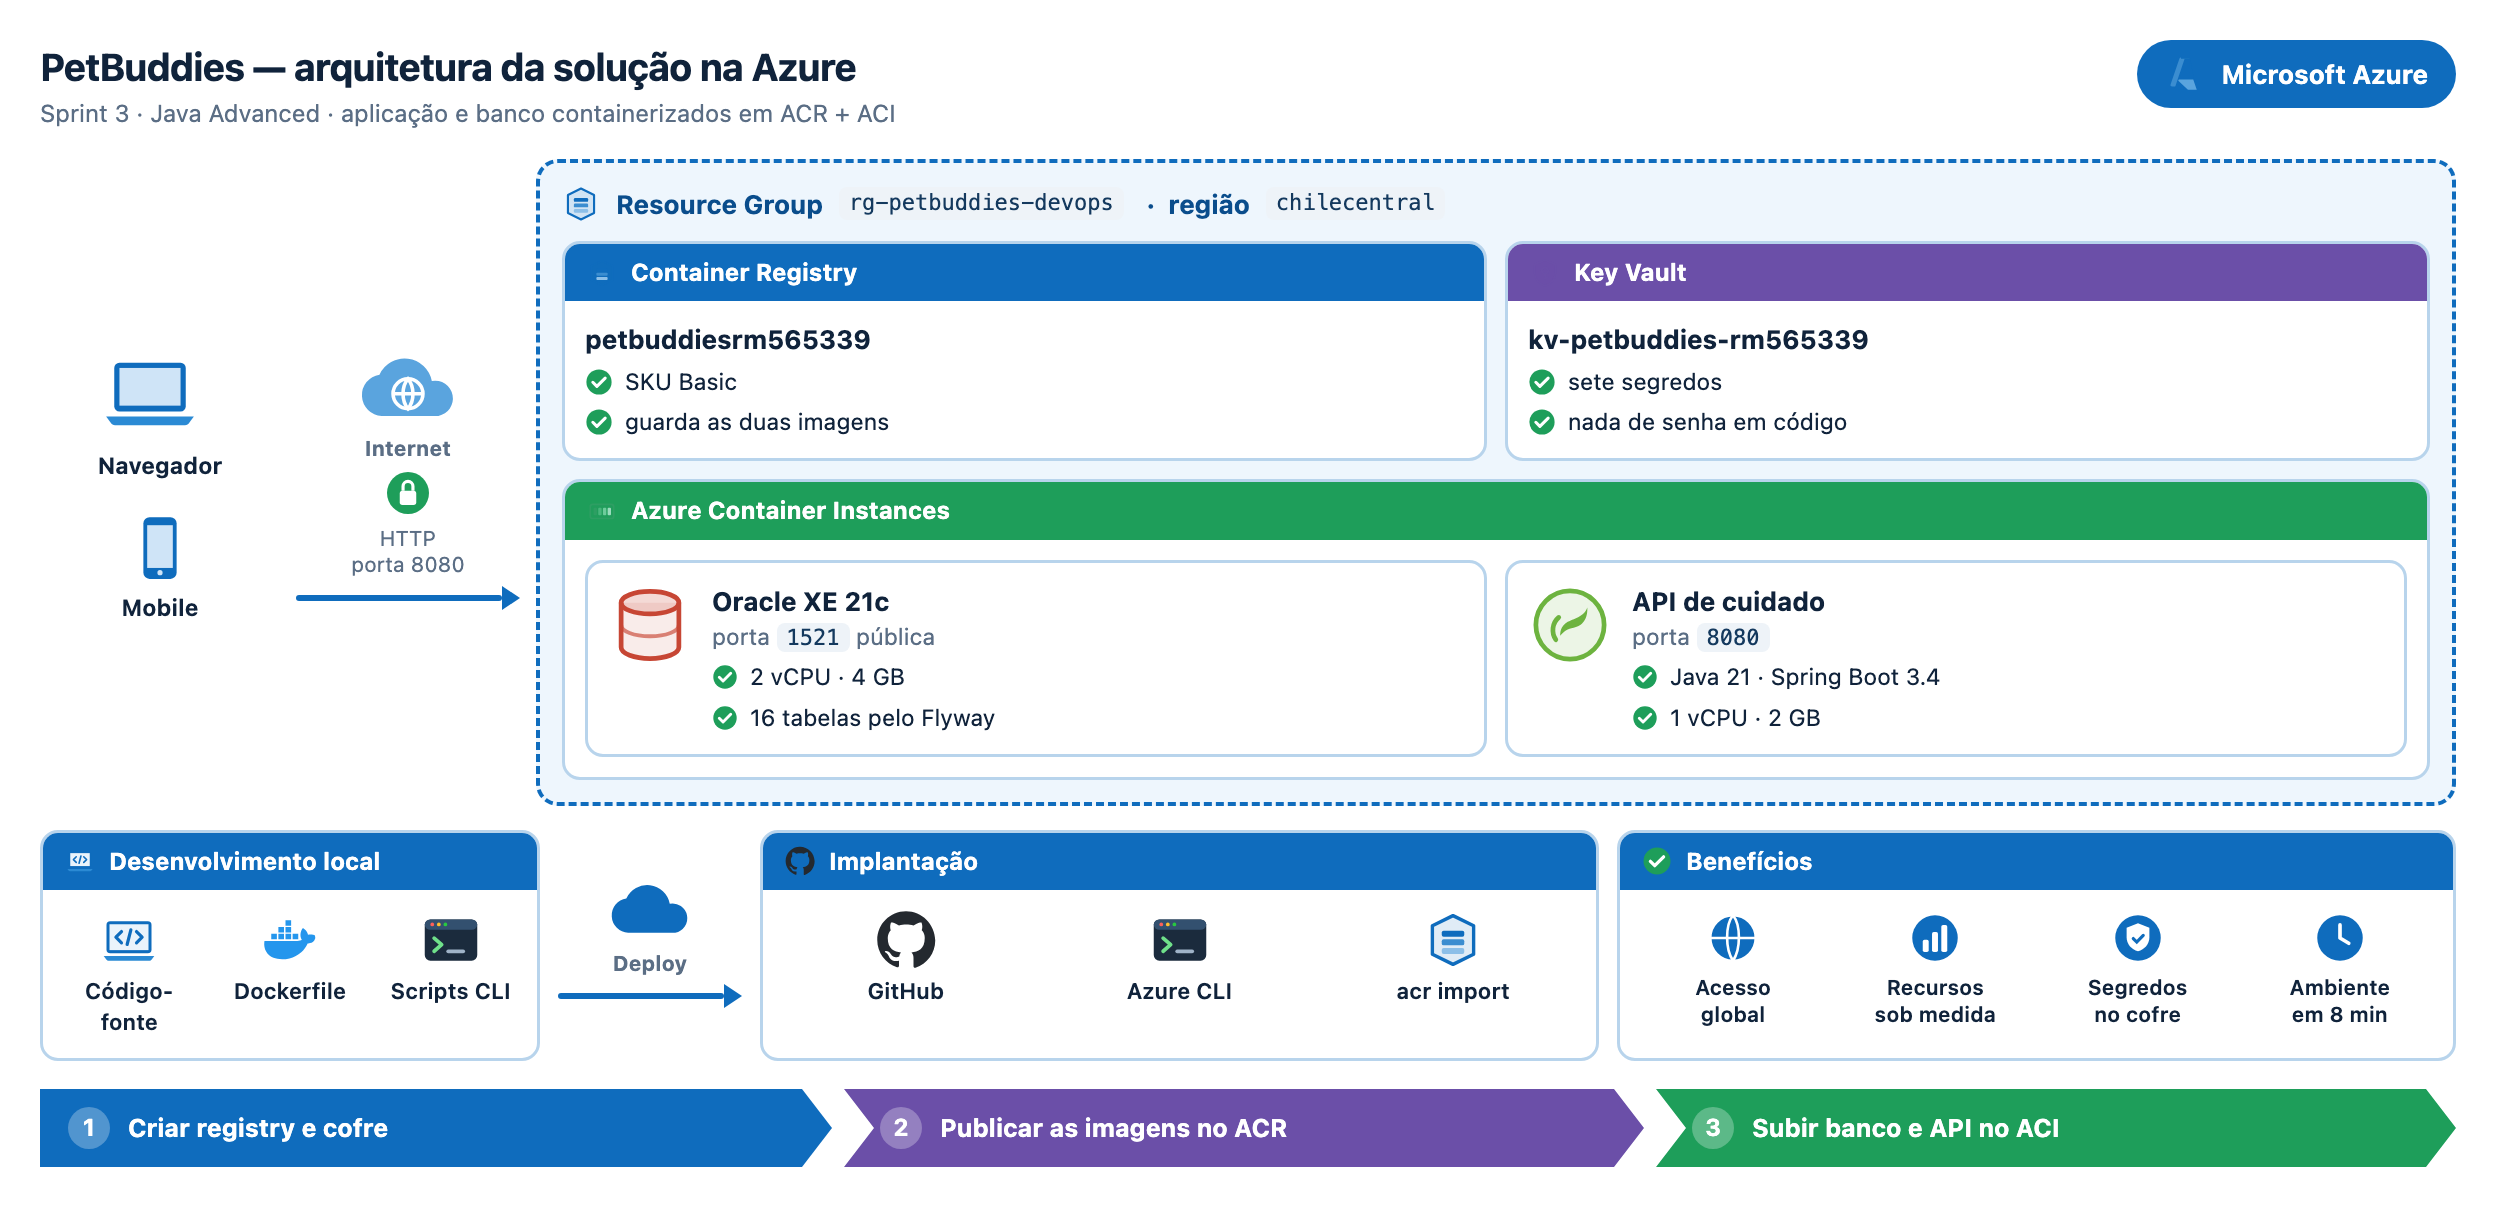
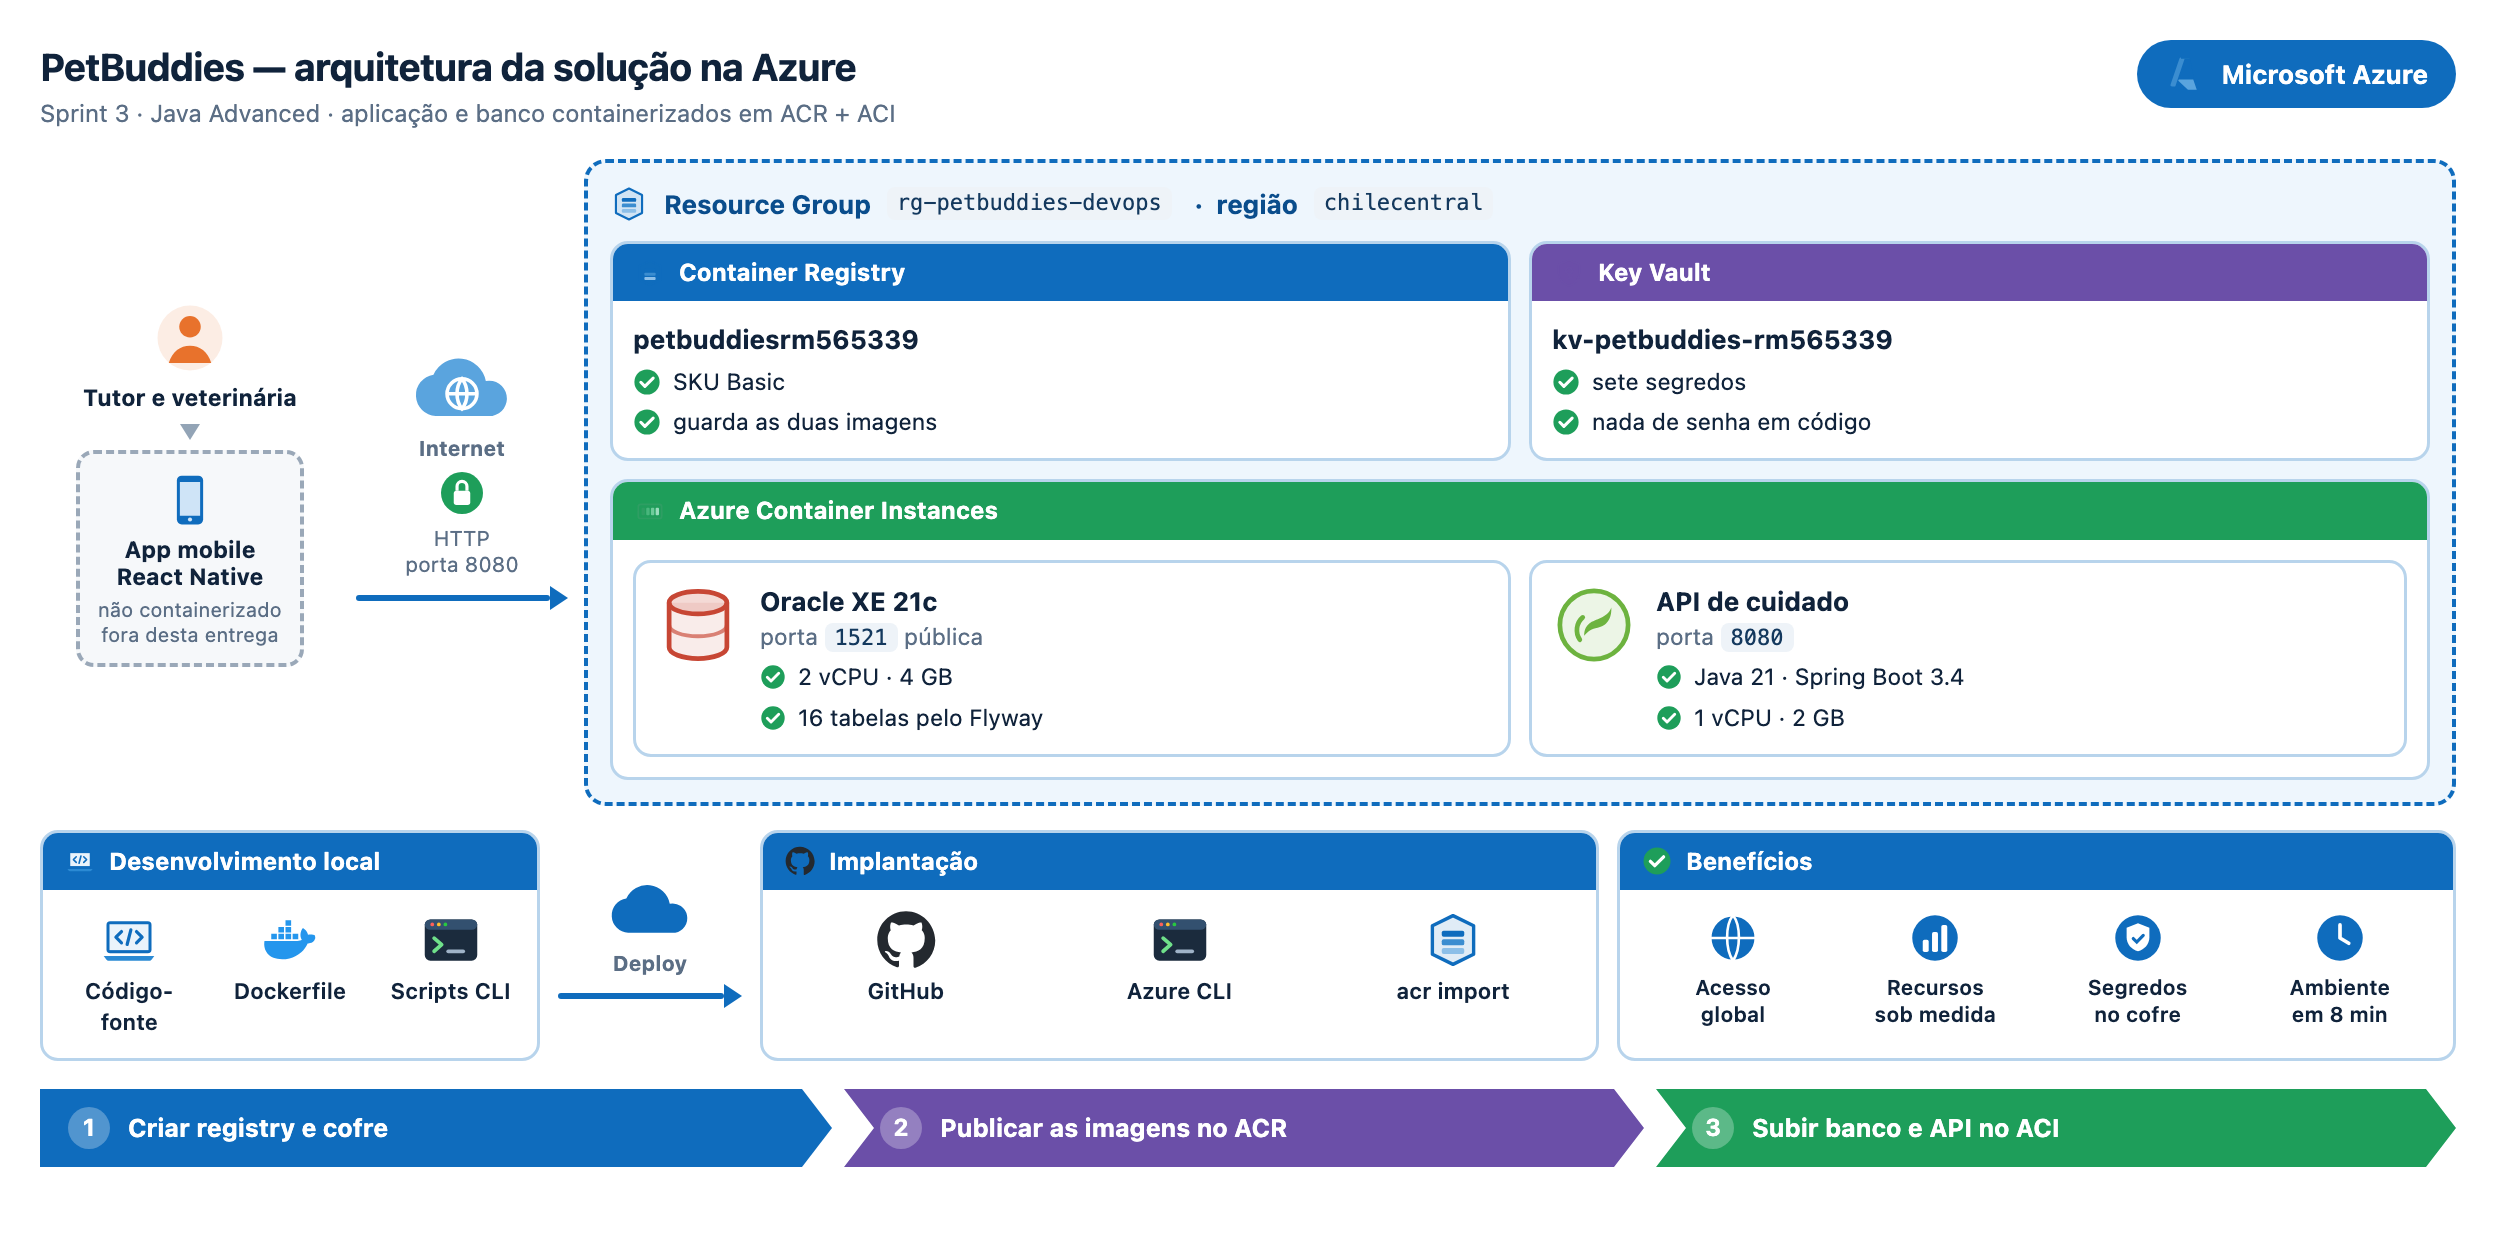
chore: acompanha a main na conta RM565339

Changed region(s): [[0.0, 0.1246, 1.0, 0.9656], [0.0312, 0.0311, 0.3438, 0.1246], [0.875, 0.0311, 0.9688, 0.0934]]

diff --git a/docs/arquitetura.html b/docs/arquitetura.html
@@ -31,8 +31,15 @@
   .nome{font-weight:700;font-size:13px}
   .desc{color:var(--fraca);font-size:11.5px;margin-top:1px}
 
-  .cena{display:grid;grid-template-columns:120px 112px 1fr;column-gap:8px;align-items:center}
-  .disp{display:flex;flex-direction:column;gap:14px;align-items:center}
+  .cena{display:grid;grid-template-columns:150px 106px 1fr;column-gap:8px;align-items:center}
+  .disp{display:flex;flex-direction:column;gap:5px;align-items:center}
+  .pessoa{text-align:center}
+  .pessoa span{display:block;font-size:11.5px;font-weight:700;margin-top:2px}
+  .desceta{width:0;height:0;border-left:5px solid transparent;border-right:5px solid transparent;
+           border-top:8px solid #93a4b6}
+  .fora{border:2px dashed #9aa8b8;border-radius:9px;background:#f6f8fa;padding:8px 9px;text-align:center}
+  .fora .t{font-weight:700;font-size:11.5px;line-height:1.2;margin-top:3px}
+  .fora .n{color:var(--fraca);font-size:10px;line-height:1.25;margin-top:3px}
   .disp .item{text-align:center}
   .disp .item span{display:block;font-size:11.5px;font-weight:650;margin-top:3px}
 
@@ -196,10 +203,14 @@
 
 <div class="cena">
   <div class="disp">
-    <div class="item"><svg class="ico" width="52" height="52"><use href="#i-laptop"/></svg>
-      <span>Navegador</span></div>
-    <div class="item"><svg class="ico" width="38" height="38"><use href="#i-mobile"/></svg>
-      <span>Mobile</span></div>
+    <div class="pessoa"><svg class="ico" width="40" height="40" style="margin:0 auto"><use href="#i-user"/></svg>
+      <span>Tutor e veterinária</span></div>
+    <div class="desceta"></div>
+    <div class="fora">
+      <svg class="ico" width="30" height="30" style="margin:0 auto"><use href="#i-mobile"/></svg>
+      <div class="t">App mobile<br>React Native</div>
+      <div class="n">não containerizado<br>fora desta entrega</div>
+    </div>
   </div>
 
   <div class="fio">
